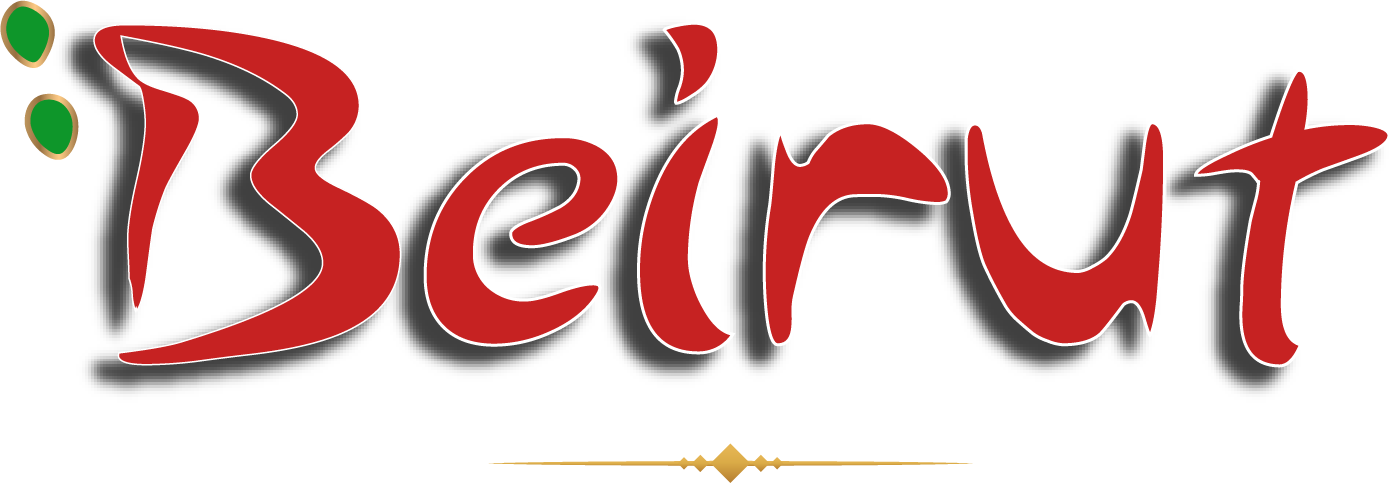
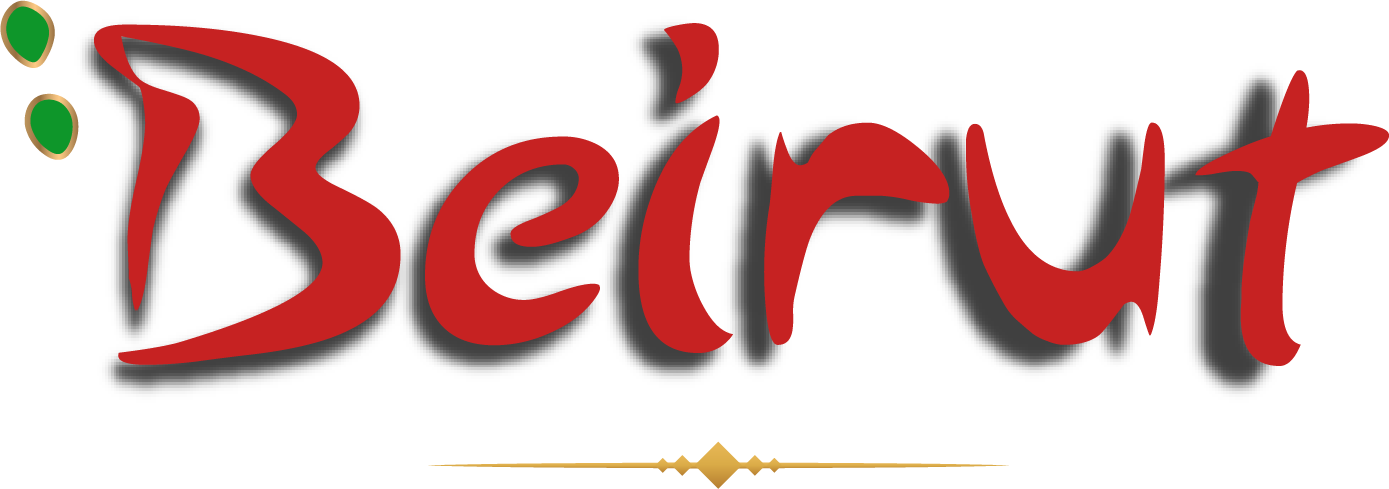
mobile

diff --git a/index.html b/index.html
@@ -294,7 +294,7 @@
             </div>
             <div class="site-header-mobi" role="dialog" aria-modal="true" aria-label="Navigation Menu Modal" style="background-image: url(images/2x/Asset%204@2x.png); background-position: left top; background-size: 100%; background-clip: padding-box;">
                 <div class="site-logo">
-                    <a class="site-logo__btn" href="index.html"> <img src="images/Logo.png" alt="Colletta Home"/> </a>
+                    <a class="site-logo__btn" href="index.html"> <img src="images/Logo2.png" alt="Colletta Home"/> </a>
                 </div>
                 <div class="site-location" style="background-color: #050505;">
                     <a href="https://goo.gl/maps/oJc1WWoZLxTaSyTz9" class="site-location__address" target="_blank" rel="noopener" data-bb-track="button" data-bb-track-on="click" data-bb-track-category="Address" data-bb-track-action="Click" data-bb-track-label="Header"><img src="images/icons/002-google-maps.svg" width="35px" height="35px" style="margin-left: -24px; margin-right: 5px; vertical-align: middle; text-align: center; padding: 8px;"/><span>Avenida López Mateos 1308,</span> <span>44500 Guadalajara, JAL.</span></a>
